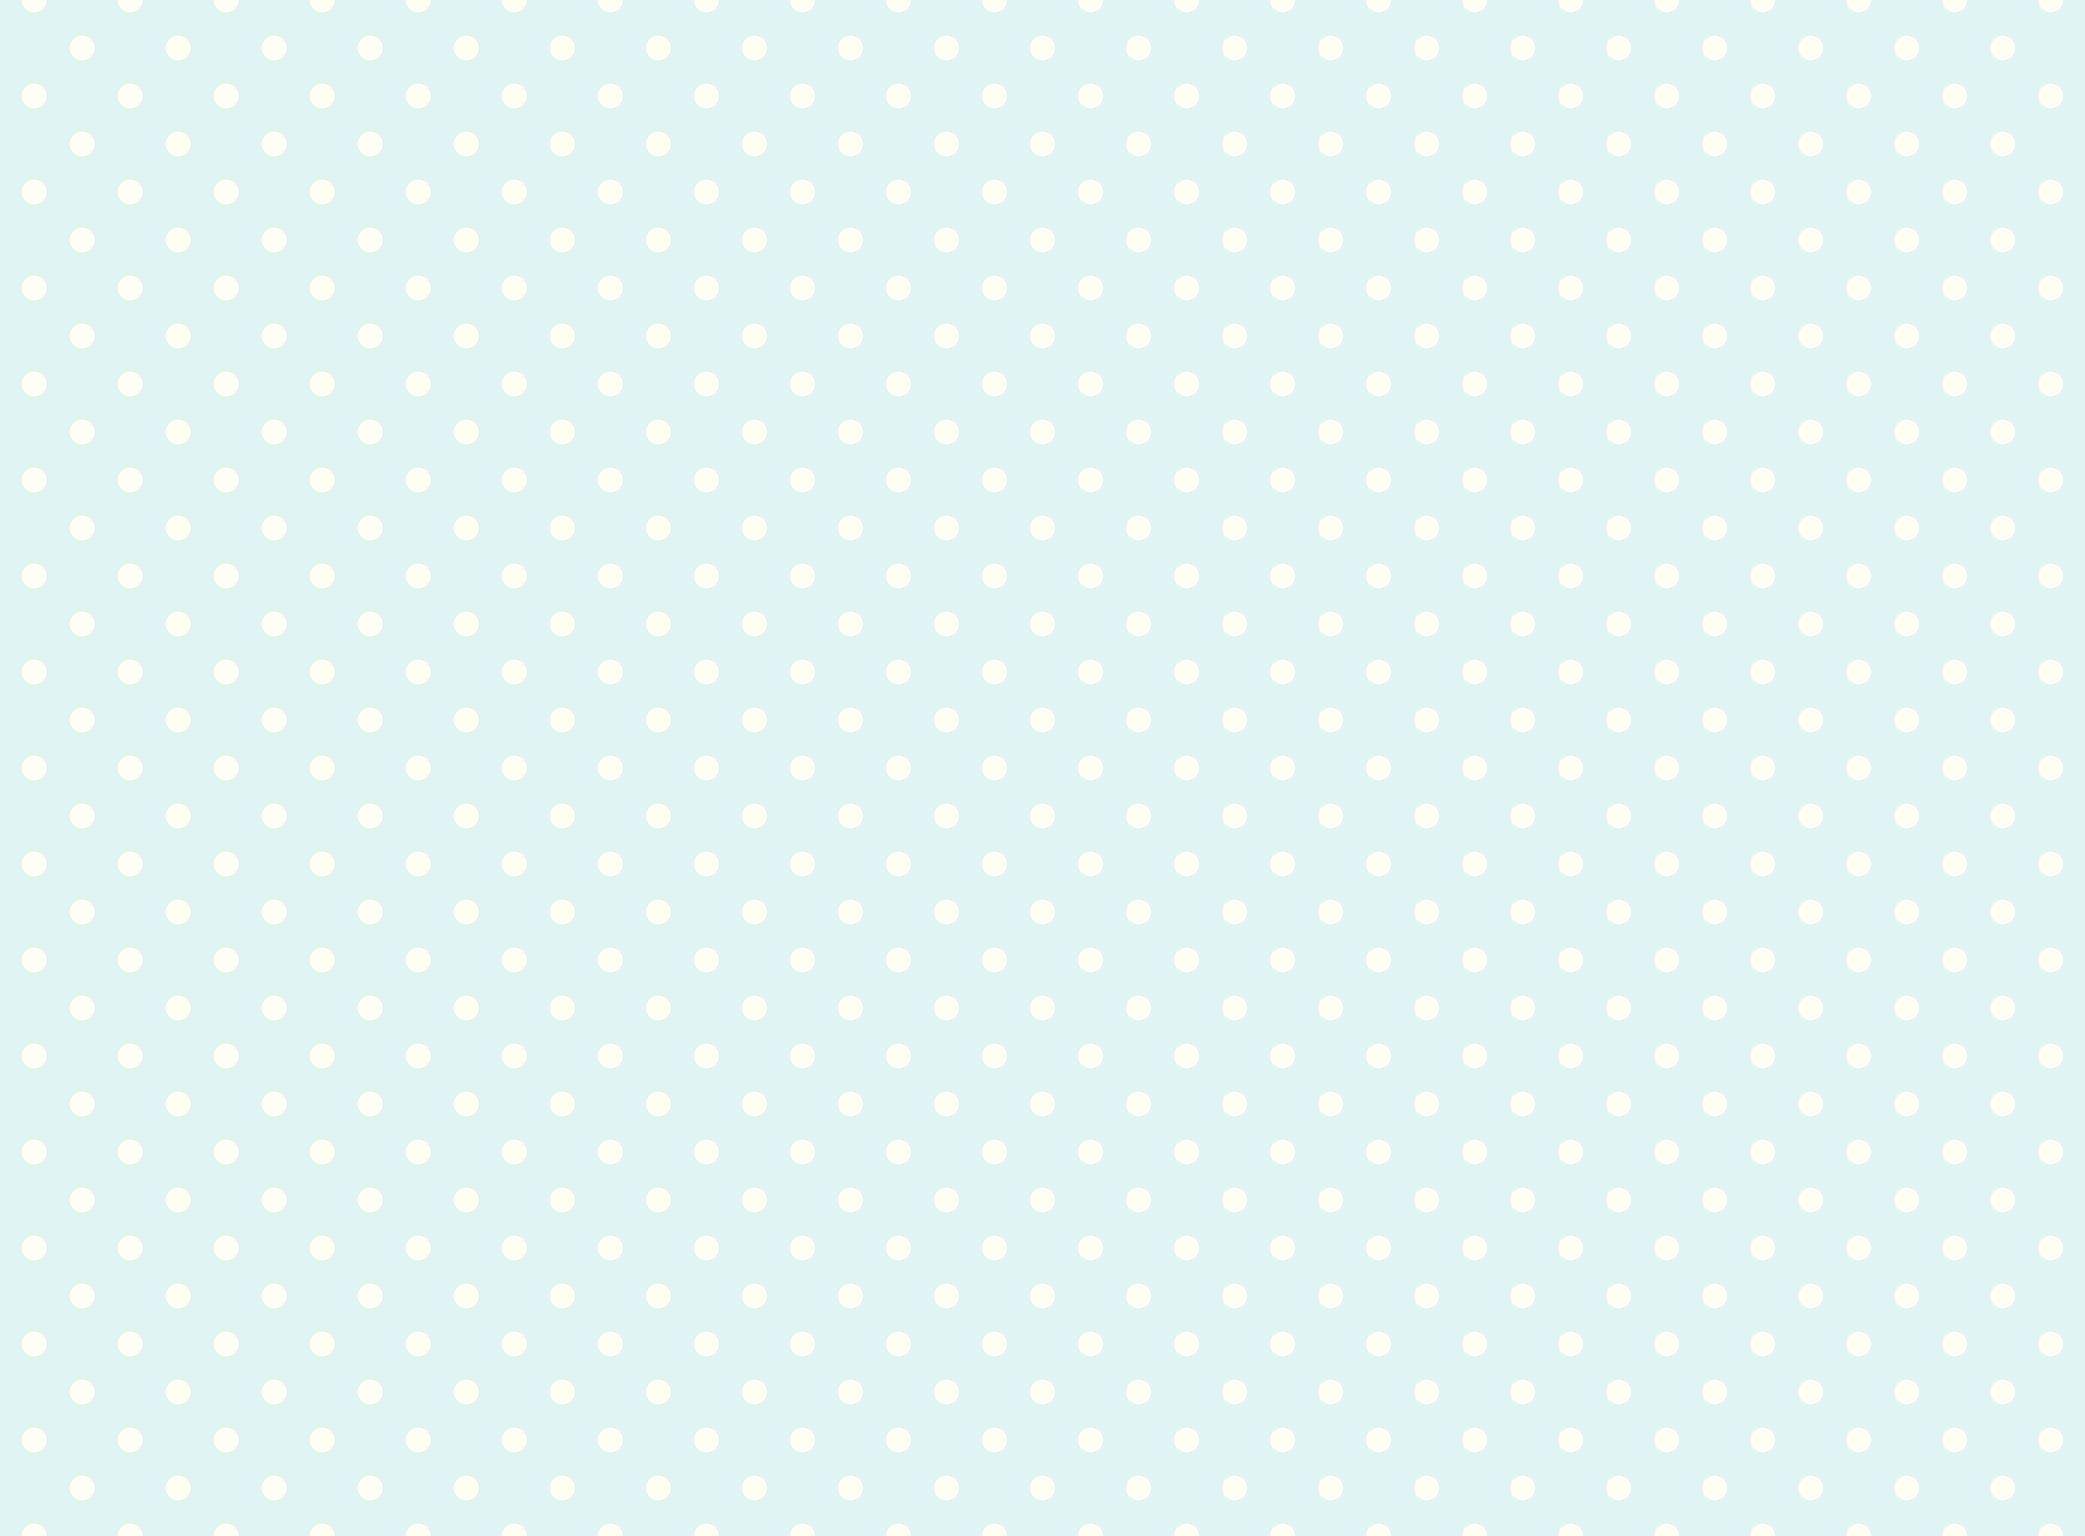
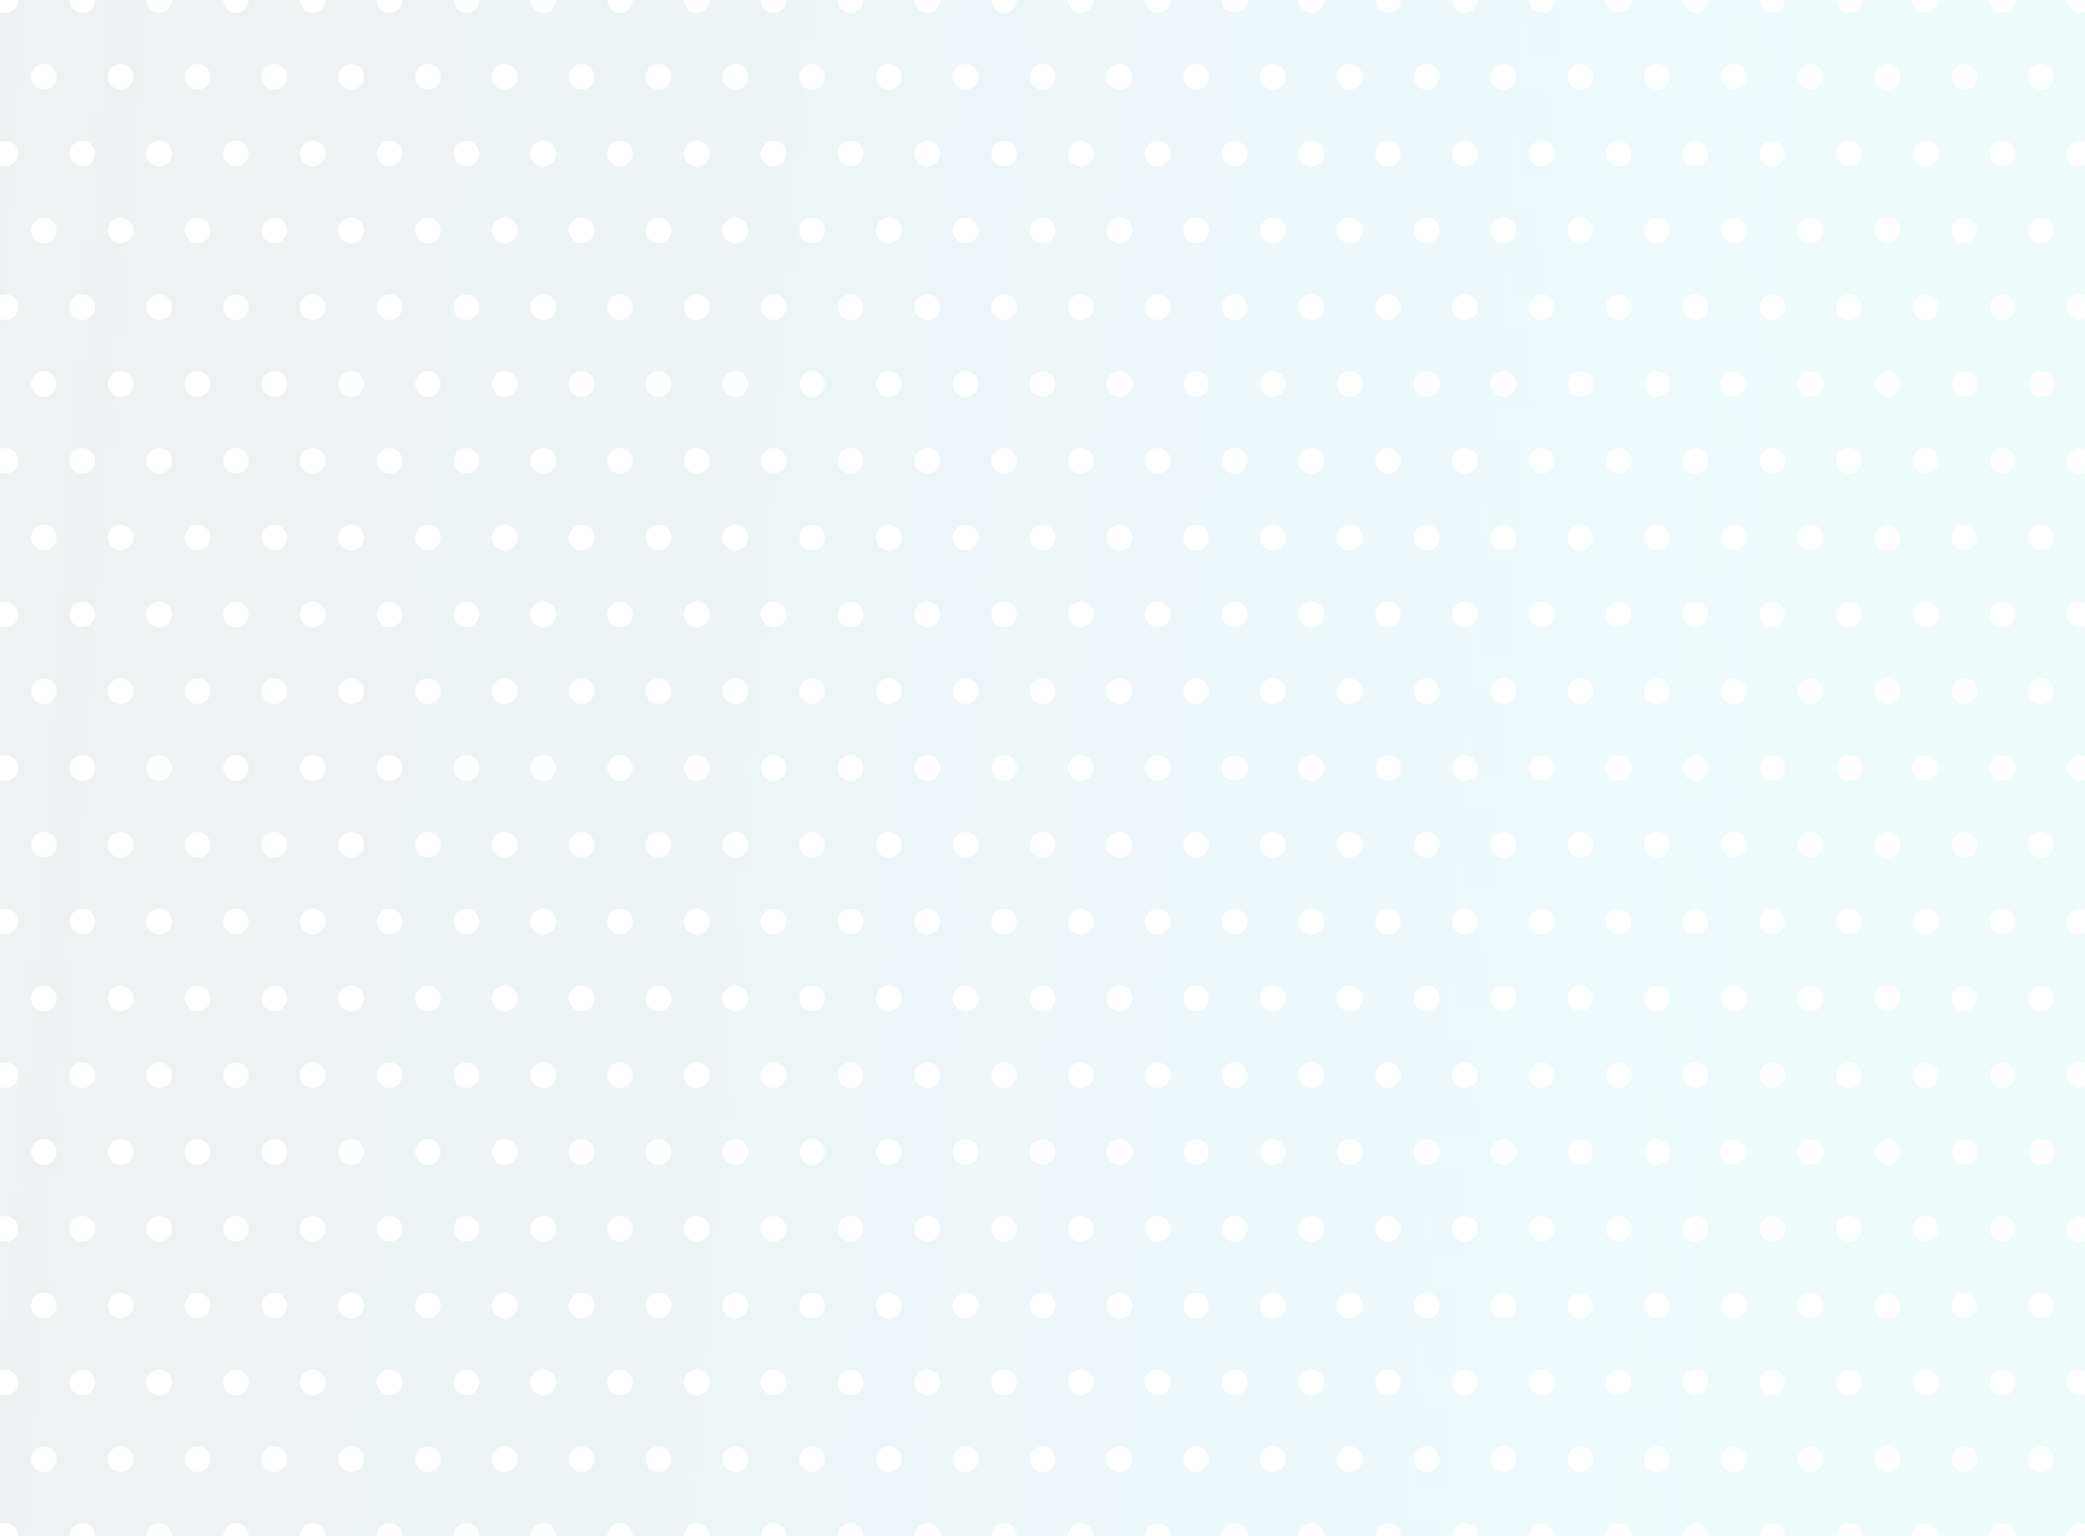
Add :focus, tabindex. Delete min769 media. Change background for three sections. Change buttons styles. Move JS script to the body

diff --git a/index.html b/index.html
@@ -7,15 +7,13 @@
     <link rel="stylesheet" media="screen and (min-width: 769px)" href="./css/styles_media_min_769px.css">
     <link rel="stylesheet" media="screen and (max-width: 768px)" href="./css/styles_media_max_768px.css">
     <link rel="stylesheet" media="screen and (max-width: 600px)" href="./css/styles_media_max_600px.css">
-    <!--<link rel="stylesheet" href="https://cdnjs.cloudflare.com/ajax/libs/font-awesome/4.7.0/css/font-awesome.min.css"> -->
     <link href="https://use.fontawesome.com/releases/v5.8.0/css/all.css" rel="stylesheet">
-    <script src="./js/index.js"></script>
     <title>Svetlana Klimova</title>
 </head>
 
 <body>
     <header>
-        <button onclick="goToTop()" id="go-to-top-button" class="button-to-top" aria-label="Go to top button"><i class="fas fa-arrow-circle-up" aria-hidden="true" title="Go to top"></i></button>
+        <button tabindex="0" type="button" onclick="goToTop()" id="go-to-top-button" class="button-to-top" aria-label="Go to top button"><i class="fas fa-arrow-circle-up" aria-hidden="true" title="Go to top"></i></button>
         <nav class="navigation-bar" id="navbar-top">
             <div class="container large-screen-flex">
                 <div class="small-screen-flex">
@@ -160,15 +158,15 @@
                         </div>
                         <div class="buttons-bottom-carousel">
                             <div class="dots">
-                                <span class="dot" onclick="findCurrentSlide(0)" onkeypress="findCurrentSlide(0)"
+                                <span tabindex="0" class="dot" onclick="findCurrentSlide(0)" onkeypress="findCurrentSlide(0)"
                                     aria-label="Current slide"></span>
-                                <span class="dot" onclick="findCurrentSlide(1)" onkeypress="findCurrentSlide(1)"
+                                <span tabindex="0" class="dot" onclick="findCurrentSlide(1)" onkeypress="findCurrentSlide(1)"
                                     aria-label="Current slide"></span>
-                                <span class="dot" onclick="findCurrentSlide(2)" onkeypress="findCurrentSlide(2)"
+                                <span tabindex="0" class="dot" onclick="findCurrentSlide(2)" onkeypress="findCurrentSlide(2)"
                                     aria-label="Current slide"></span>
-                                <span class="dot" onclick="findCurrentSlide(3)" onkeypress="findCurrentSlide(3)"
+                                <span tabindex="0" class="dot" onclick="findCurrentSlide(3)" onkeypress="findCurrentSlide(3)"
                                     aria-label="Current slide"></span>
-                                <span class="dot" onclick="findCurrentSlide(4)" onkeypress="findCurrentSlide(4)"
+                                <span tabindex="0" class="dot" onclick="findCurrentSlide(4)" onkeypress="findCurrentSlide(4)"
                                     aria-label="Current slide"></span>
                             </div>
                             <div class="play-stop-buttons">
@@ -195,30 +193,30 @@
                     <div class="technologies-content">
                         <h3>Technologies</h3>
                         <div class="technologies-icons grid-container">
-                            <a href="#" class="grid-item" aria-label="HTML-5 icon"><i class="fab fa-html5"
-                                    aria-hidden="true" title="HTML-5"></i><br>HTML</a>
-                            <a href="#" class="grid-item" aria-label="CSS-3 icon"><i class="fab fa-css3-alt"
-                                    aria-hidden="true" title="CSS-3"></i><br>CSS</a>
-                            <a href="#" class="grid-item" aria-label="NodeJS icon"><i class="fab fa-node-js"
-                                    aria-hidden="true" title="NodeJS"></i><br>Node JS</a>
-                            <a href="#" class="grid-item" aria-label="JavaScript icon"><i class="fab fa-js"
-                                    aria-hidden="true" title="JavaScript"></i><br>JavaScript</a>
-                            <a href="#" class="grid-item" aria-label="Git icon"><i class="fab fa-git" aria-hidden="true"
-                                    title="Git"></i><br>Git</a>
-                            <a href="#" class="grid-item" aria-label="SQL icon"><i class="fas fa-database"
-                                    aria-hidden="true" title="SQL"></i><br>SQL</a>
-                            <a href="#" class="grid-item" aria-label="Bootstrap icon"><i class="fab fa-bootstrap"
-                                    aria-hidden="true" title="Bootstrap"></i><br>Bootstrap</a>
-                            <a href="#" class="grid-item" aria-label="React icon"><i class="fab fa-react"
-                                    aria-hidden="true" title="React"></i><br>React</a>
-                            <a href="#" class="grid-item" aria-label="and more..."><i class="far fa-smile"
-                                    aria-hidden="true" title="and more..."></i></i><br>and more...</a>
+                            <span class="grid-item" aria-label="HTML-5 icon"><i class="fab fa-html5"
+                                    aria-hidden="true" title="HTML-5"></i><br>HTML</span>
+                            <span href="#" class="grid-item" aria-label="CSS-3 icon"><i class="fab fa-css3-alt"
+                                    aria-hidden="true" title="CSS-3"></i><br>CSS</span>
+                            <span href="#" class="grid-item" aria-label="NodeJS icon"><i class="fab fa-node-js"
+                                    aria-hidden="true" title="NodeJS"></i><br>Node JS</span>
+                            <span href="#" class="grid-item" aria-label="JavaScript icon"><i class="fab fa-js"
+                                    aria-hidden="true" title="JavaScript"></i><br>JavaScript</span>
+                            <span href="#" class="grid-item" aria-label="Git icon"><i class="fab fa-git" aria-hidden="true"
+                                    title="Git"></i><br>Git</span>
+                            <span href="#" class="grid-item" aria-label="SQL icon"><i class="fas fa-database"
+                                    aria-hidden="true" title="SQL"></i><br>SQL</span>
+                            <span href="#" class="grid-item" aria-label="Bootstrap icon"><i class="fab fa-bootstrap"
+                                    aria-hidden="true" title="Bootstrap"></i><br>Bootstrap</span>
+                            <span href="#" class="grid-item" aria-label="React icon"><i class="fab fa-react"
+                                    aria-hidden="true" title="React"></i><br>React</span>
+                            <span href="#" class="grid-item" aria-label="and more..."><i class="far fa-smile"
+                                    aria-hidden="true" title="and more..."></i></i><br>and more...</span>
                         </div>
                     </div>
                     <div class="accordion-certificates-content">
                         <h3>Certificates</h3>
                         <div class="accordion-certificates">
-                            <button class="cert-accordion">FreeCodeCamp</button>
+                            <button type="button" class="cert-accordion">FreeCodeCamp</button>
                             <div class="cert-accordion-content">
                                 <ul>
                                     <li><a href="https://www.freecodecamp.org/certification/randomsveta/responsive-web-design"
@@ -229,7 +227,7 @@
                                             Algorithms and Data Structures</a></li>
                                 </ul>
                             </div>
-                            <button class="cert-accordion">Coursera</button>
+                            <button type="button" class="cert-accordion">Coursera</button>
                             <div class="cert-accordion-content">
                                 <h4>Full-Stack Web Development with React</h4>
                                 <ul>
@@ -254,7 +252,7 @@
                                 </ul>
                             </div>
 
-                            <button class="cert-accordion">QA</button>
+                            <button type="button" class="cert-accordion">QA</button>
                             <div class="cert-accordion-content">
                                 <ul>
                                     <li><a href="./images/certificates/ISTQB/ISTQB_Foundation_QA.png"
@@ -325,6 +323,7 @@
         </div>
 
     </footer>
+    <script src="./js/index.js"></script>
 </body>
 
 </html>

diff --git a/css/styles.css b/css/styles.css
@@ -54,6 +54,10 @@ body {
     box-sizing: border-box;
 }
 
+*:focus {
+    outline: dotted DarkTurquoise;
+}
+
 header {
     background-color: rgb(40, 43, 46);
     height: 100%;
@@ -145,16 +149,25 @@ p {
     word-wrap: break-word;
 }
 
-a {
+a:link {
     text-decoration: none;
     color: rgb(40, 43, 46);
     padding: 0.2rem;
-    border: 0.1rem solid transparent;
+}
+a:visited {
+    color: rgba(36, 143, 143, 0.9);
 }
 
-a:hover {
-    border: 0.1rem solid rgb(78, 158, 158);
-    color: rgb(36, 143, 143);
+a:hover, a:active {
+    text-decoration-line: underline;
+    text-decoration-style: double;
+    color: rgba(40, 43, 46, 0.8); 
+}
+button {
+    padding:0 0.2rem;
+    margin:0;
+    cursor: pointer;
+    border-radius: 0.5rem;
 }
 
 /* --- Global elements styles --- */
@@ -203,7 +216,6 @@ input[type=text], input[type=email] {
 
 textarea:focus, input:focus {
     border-color: rgba(153, 206, 212, 0.7);
-    outline: 0.2rem solid rgba(153, 206, 212, 0.7);
     -webkit-box-shadow: none;
     box-shadow: none;
     outline-offset: 0;
@@ -254,9 +266,6 @@ label {
     text-align: center;
 }
 
-button {
-    cursor: pointer;
-}
 
 /* ------ Global classes styles ------ */
 
@@ -301,14 +310,12 @@ button {
     position: fixed;
     bottom: 3rem;
     right: 5rem;
-    border: none;
-    outline: none;
     background-color: transparent;
     font-size: 4rem;
     color: rgba(0, 0, 0, 0.7);
   }
   .button-to-top:hover {
-      color: rgb(36, 143, 143);
+      color: rgba(36, 143, 143, 0.9);
   }
 
 /* --- Header. Navigation styles--- */
@@ -318,9 +325,6 @@ button {
     padding: 0;
     width: 4.3vw;
     height: auto;
-}
-.navbar-brand a:hover {
- border: 0.1rem solid transparent;
 }
 
 .navigation-bar {
@@ -400,10 +404,32 @@ nav .toggle-bars {
     color: rgb(198, 239, 241);
     text-decoration: none;
 }
-
-a.active-nav-item {
-    border: 0.15rem solid rgb(198, 239, 241);
+.underscore-nav-item a::before {
+    content: '';
+    display: block;
+    background-color: rgb(198, 239, 241);
+    height: 0.6rem;
+    position: absolute;
+    left: 0;
+    right: 0;
+    top: -1rem;
+    -webkit-transform: scale(0, 1);
+    -ms-transform: scale(0, 1);
+    transform: scale(0, 1);
+    -webkit-transition: -webkit-transform ease-in-out 150ms;
+    transition: -webkit-transform ease-in-out 150ms;
+    -o-transition: transform ease-in-out 150ms;
+    transition: transform ease-in-out 150ms;
+    transition: transform ease-in-out 150ms, -webkit-transform ease-in-out 150ms;
 }
+a.active-nav-item::before {
+ 
+    -webkit-transform: scale(1, 1);
+    -ms-transform: scale(1, 1);
+    transform: scale(1, 1);
+}
+
+
 
 /* --- Header. Content styles--- */
 
@@ -420,7 +446,7 @@ a.active-nav-item {
 }
 
 .header-name {
-    padding-top: 6%;
+    padding-top: 6.5%;
     width: 50%;
 }
 
@@ -469,13 +495,15 @@ a.active-nav-item {
 .header-smIcons a {
     font-size: 2.5vw;
     color: rgb(198, 239, 241);
-    margin: 0;
-    padding: 0;
+    margin: 0.1rem;
+    padding: 0.1rem 0.5rem;
     border: none;
 }
 
 .header-smIcons a:hover {
-    color: rgb(255, 255, 255);
+    color: rgb(40, 43, 46);
+    background-color: rgba(198, 239, 241, 0.8);
+    border-radius: 0.5rem;
     border: none;
 }
 
@@ -684,8 +712,6 @@ a.active-nav-item {
 .section-carousel button, .dot {
     background-color: transparent;
     color: rgb(40, 43, 46);
-    border: none;
-    border-radius: 0.5rem;
     text-align: center;
     padding: 0;
     margin: 0.5rem;
@@ -866,7 +892,6 @@ span.grid-item:hover {
 .cert-accordion {
     background-color: rgb(40, 43, 46);
     color: rgb(255, 255, 255);
-    outline: none;
     font-weight: 150;
     padding: 1.5rem;
     width: 100%;
@@ -881,20 +906,26 @@ span.grid-item:hover {
 }
 
 .active-acc-button:hover, .cert-accordion:hover {
-    background-color: rgb(198, 239, 241);
+    background-color: rgba(198, 239, 241, 0.9);
     color: rgb(40, 43, 46);
 }
-
-.cert-accordion:after {
+.cert-accordion:hover::after  {
+    color: rgb(40, 43, 46);
+}
+button.cert-accordion {
+    display: flex;
+    justify-content: space-between;
+}
+.cert-accordion::after {
     content: '\002B';
     color: rgb(255, 255, 255);
-    float: right;
     margin-left: 0.5rem;
 }
 
-.active-acc-button:after {
+.active-acc-button::after {
     content: "\2212";
 }
+
 
 .cert-accordion-content {
     padding: 0 1.8rem;
@@ -992,12 +1023,14 @@ span.grid-item:hover {
 .footer-smIcons a {
     font-size: 2.5vw;
     color: rgb(198, 239, 241);
-    margin: 0;
-    padding: 0;
+    margin: 0.1rem;
+    padding: 0.1rem 0.5rem;
     border: none;
 }
 
 .footer-smIcons a:hover {
-    color: rgb(255, 255, 255);
+    color: rgb(40, 43, 46);
+    background-color: rgba(198, 239, 241, 0.8);
+    border-radius: 0.5rem;
     border: none;
 }

diff --git a/css/styles_media_max_768px.css b/css/styles_media_max_768px.css
@@ -103,11 +103,11 @@
         color: rgba(255, 255, 255, 0.9);
     }
     /* --- Header. Content styles--- */
-    .header-content {
-        padding-top: 9.2vh;
-    }
     .header-name p {
         font-size: 2rem;
+    }
+    .header-name {
+        padding-top: 14%; 
     }
     /* --- Header. Social media icons styles --- */
     .header-smIcons a {
@@ -140,9 +140,6 @@
         background-size: cover;
         background-origin: content-box, border-box;
         background-color: rgba(226, 230, 231, 0.9);
-    }
-    .section-aboutme .section-content {
-        background-size: auto 100%;
     }
     /* - Section "About me". Text styles - */
     .section-aboutme-text {
@@ -183,7 +180,7 @@
         background-image: url("../images/background/three_sections_background.png");
         background-position: center;
         background-repeat: no-repeat;
-        background-size: cover;
+        background-size: auto 100%;
         background-origin: content-box, border-box;
     }
     .section-carousel .section-content {

diff --git a/css/styles_media_max_600px.css b/css/styles_media_max_600px.css
@@ -73,7 +73,6 @@
     /* ------ Sections ------ */
     /* --- Section "About me" --- */
     .section-aboutme .section-content {
-        background-size: auto 100%;
         background-position: right bottom;
     }
     /* - Section "About me". Text styles - */
